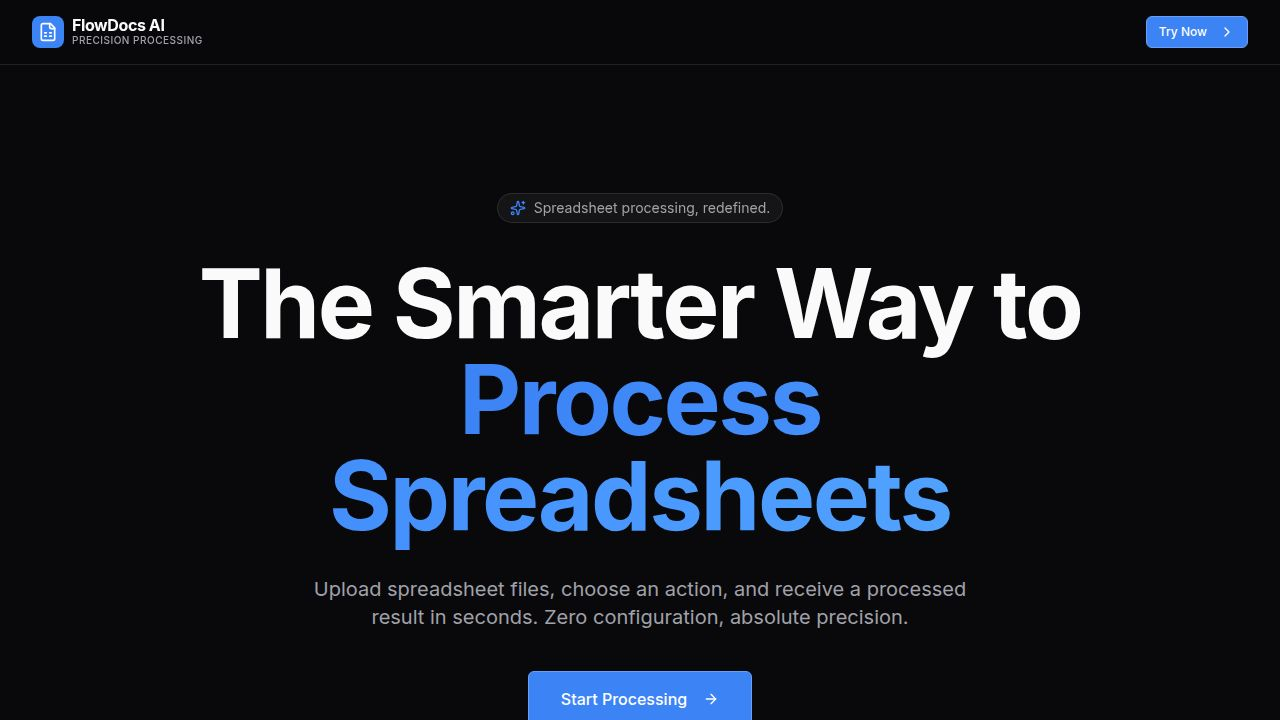
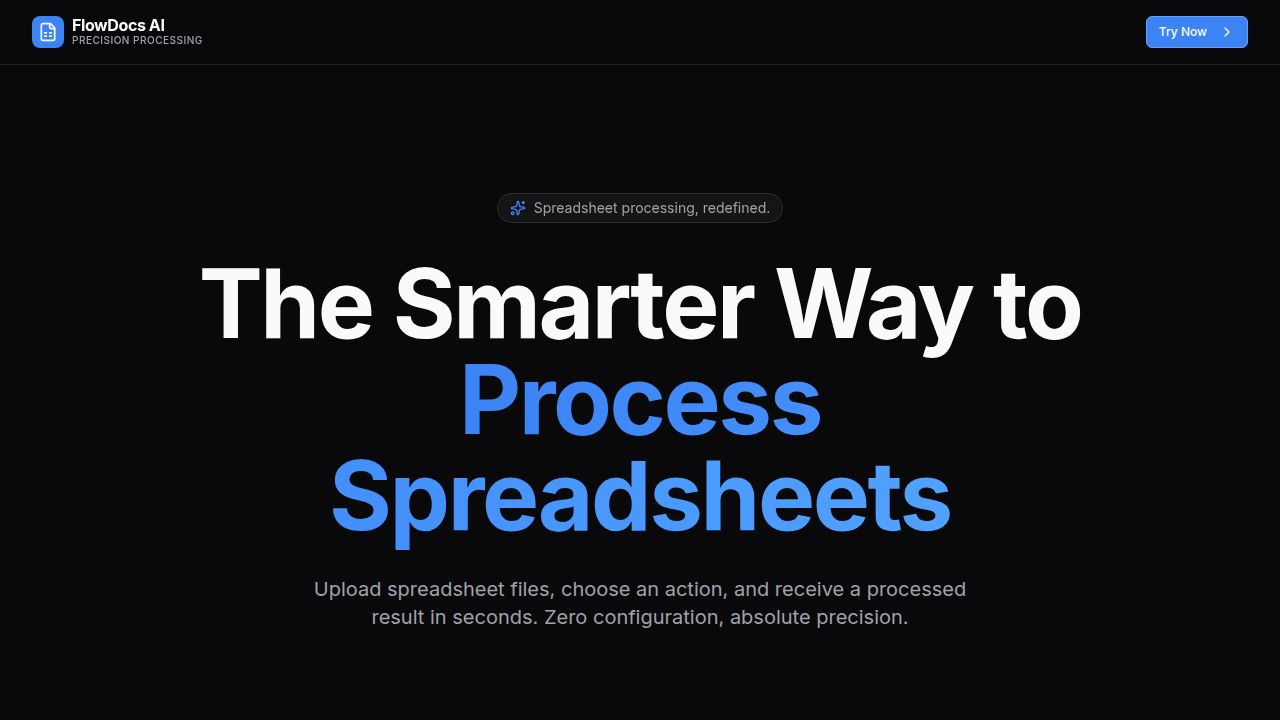
Make environment variables optional during build
Update vite.config.ts to make PORT and BASE_PATH optional during production builds, preventing build failures and ensuring proper deployment.

Replit-Commit-Author: Agent
Replit-Commit-Session-Id: 49d72b8a-611a-4f1a-aaf4-5248a9e19ae8
Replit-Commit-Checkpoint-Type: full_checkpoint
Replit-Commit-Event-Id: 6580dfe9-c482-4168-9c90-a3b3187008c0
Replit-Commit-Screenshot-Url: https://storage.googleapis.com/screenshot-production-us-central1/38fc86d4-e6db-4284-8015-9805a1e2b090/49d72b8a-611a-4f1a-aaf4-5248a9e19ae8/6Ozdq8Y
Replit-Helium-Checkpoint-Created: true

Changed region(s): [[0.4062, 0.9167, 0.5938, 1.0]]

diff --git a/artifacts/flowdocs-ai/vite.config.ts b/artifacts/flowdocs-ai/vite.config.ts
@@ -4,27 +4,18 @@ import tailwindcss from "@tailwindcss/vite";
 import path from "path";
 import runtimeErrorOverlay from "@replit/vite-plugin-runtime-error-modal";
 
+const isBuild = process.env.NODE_ENV === "production" || process.argv.includes("build");
+
 const rawPort = process.env.PORT;
-
-if (!rawPort) {
-  throw new Error(
-    "PORT environment variable is required but was not provided.",
-  );
+if (!rawPort && !isBuild) {
+  throw new Error("PORT environment variable is required but was not provided.");
 }
-
-const port = Number(rawPort);
-
-if (Number.isNaN(port) || port <= 0) {
+const port = Number(rawPort ?? "3000");
+if (!isBuild && (Number.isNaN(port) || port <= 0)) {
   throw new Error(`Invalid PORT value: "${rawPort}"`);
 }
 
-const basePath = process.env.BASE_PATH;
-
-if (!basePath) {
-  throw new Error(
-    "BASE_PATH environment variable is required but was not provided.",
-  );
-}
+const basePath = process.env.BASE_PATH ?? "/";
 
 export default defineConfig({
   base: basePath,